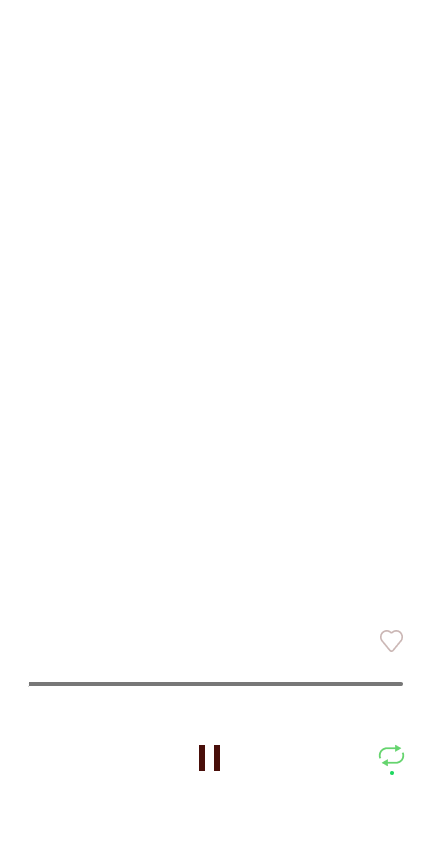
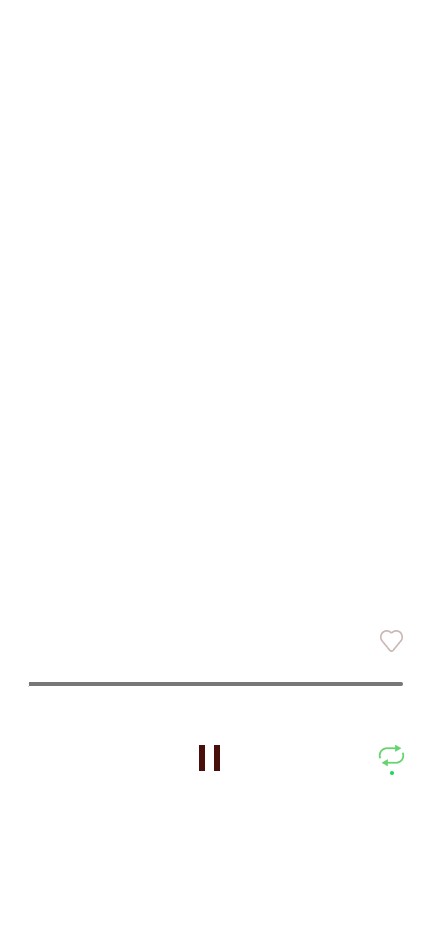
Edit overlay

Changed region(s): [[0.0607, 0.787, 0.9416, 0.908], [0.0607, 0.7264, 0.9416, 0.7567], [0.8808, 0.6659, 0.9416, 0.6962]]

diff --git a/src/plugins/Spotify.js b/src/plugins/Spotify.js
@@ -169,7 +169,7 @@ class Spotify {
     ctx.textBaseline = "top"; // align the text to the top of the canvas
     ctx.fillText("0:00", 20, 694)
 
-    const image = await canvas.loadImage("https://cdn.discordapp.com/attachments/1047187283234795580/1053677610367975624/Track_View.png");
+    const image = await canvas.loadImage("https://cdn.discordapp.com/attachments/1047187283234795580/1070006128349544458/Overlay.png");
     ctx.drawImage(image, 0, 0, 428, 926);
 
     // returns the buffer Ara Ara
